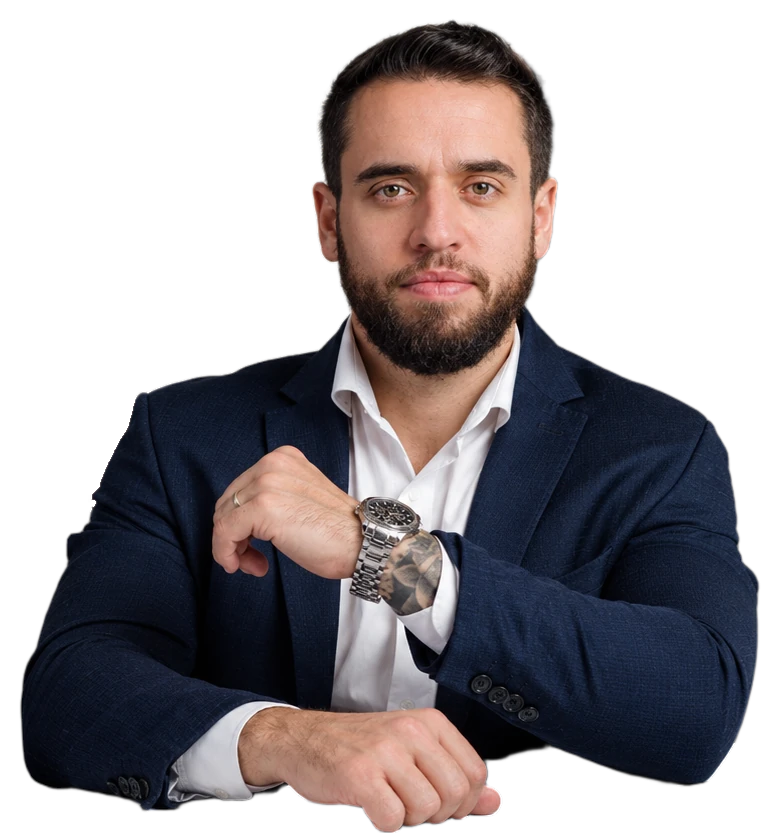
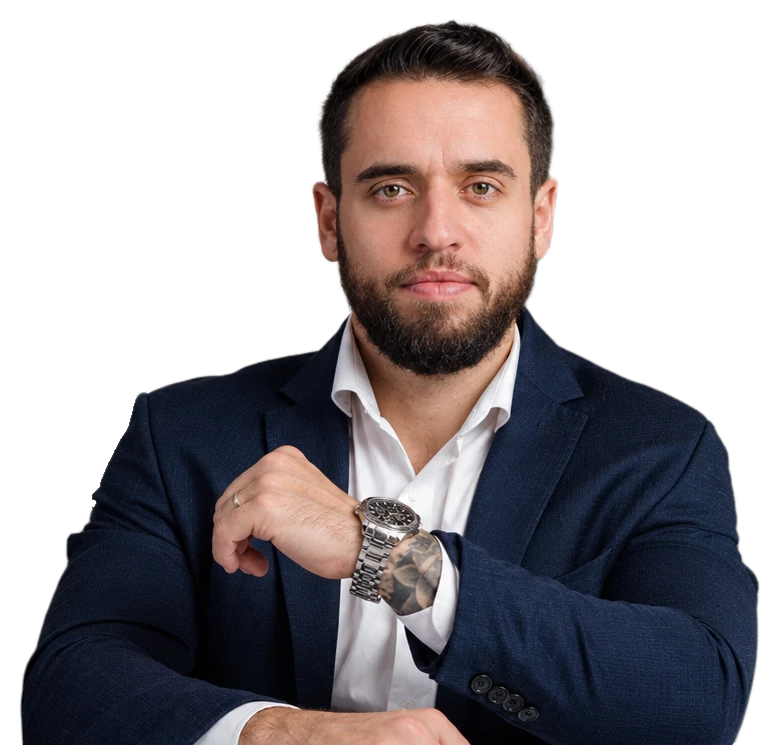
Hero: base do retrato reta e encostada na borda
Corta o recorte numa linha horizontal contínua na altura dos braços e
remove o degradê da base, para a foto encostar no letreiro sem vazio.

diff --git a/index.html b/index.html
@@ -450,12 +450,11 @@ html:not(.js) .rv, html:not(.js) .ln > .lni, html:not(.js) .ch, html:not(.js) .w
     <figure class="liquid liquid--bare" data-liquid="30" data-bare>
       <picture>
         <source type="image/webp" srcset="assets/images/nitio-recorte.webp">
-        <img src="assets/images/nitio-recorte.png" width="780" height="833" alt="Nítio Mendes, de terno azul-marinho, sentado à mesa do consultório" fetchpriority="high" data-hero-img>
+        <img src="assets/images/nitio-recorte.png" width="780" height="745" alt="Nítio Mendes, de terno azul-marinho, sentado à mesa do consultório" fetchpriority="high" data-hero-img>
       </picture>
     </figure>
   </div>
-  <div class="hero__fade" aria-hidden="true"></div>
-
+  
   <h1 class="hero__name" aria-label="Nítio Mendes">
     <span class="ln" aria-hidden="true" data-letters>Nítio</span>
     <span class="ln" aria-hidden="true" data-letters>Mendes</span>
